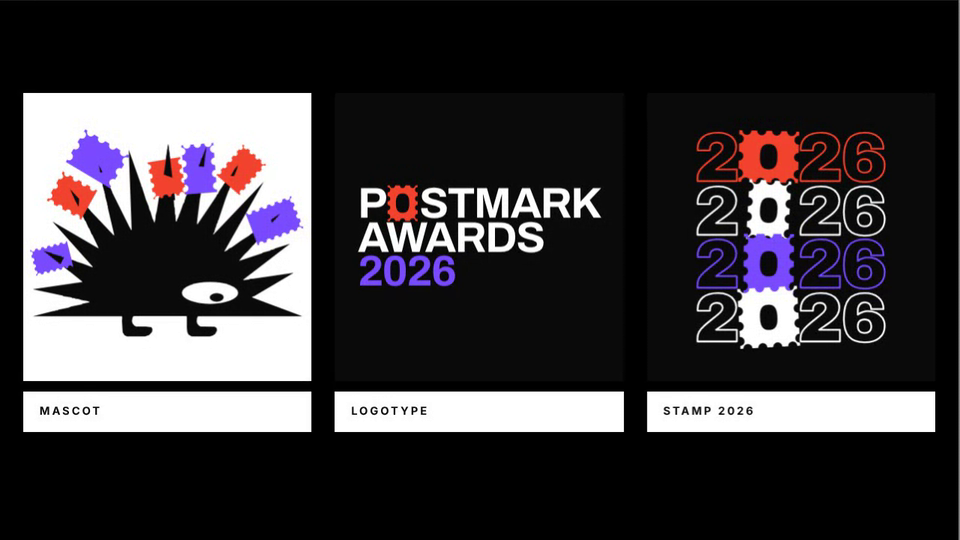
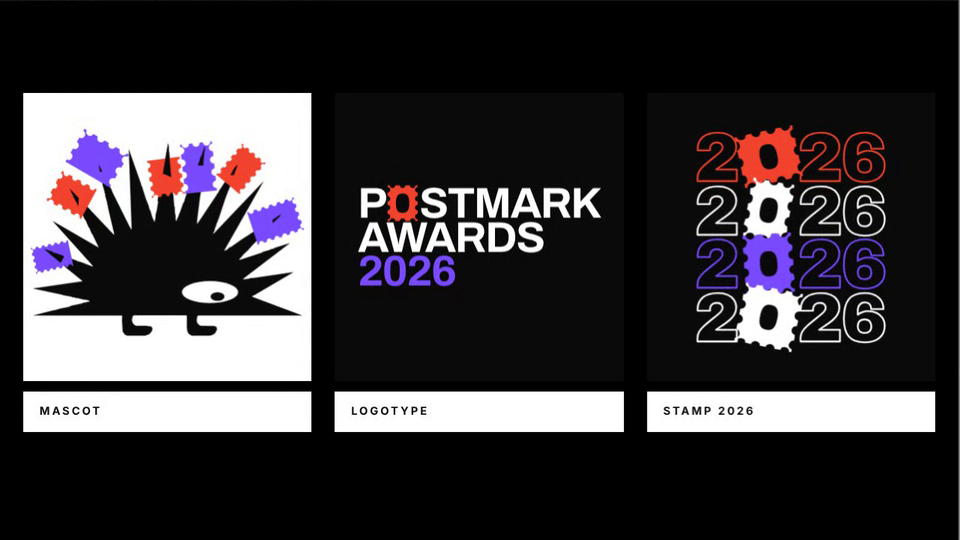
Postmark brand visuals: tilted 2026 stamps (#551)
* Add Postmark Awards 2026 Brand Visuals: porcupine mascot, stamp-O logotype, stamp 2026

Claude-Session: https://claude.ai/code/session_01AHeBe11E2oZW8Zsz7RdnLE

* Postmark brand visuals: rectangular stamps, outlined 2026 with tighter rows, tighter logotype

Claude-Session: https://claude.ai/code/session_01AHeBe11E2oZW8Zsz7RdnLE

* Postmark brand visuals: trace the reference porcupine with quills poking through stamps, tighter 2026 spacing

Claude-Session: https://claude.ai/code/session_01AHeBe11E2oZW8Zsz7RdnLE

* Postmark brand visuals: no perforations on the stamp edge where the quill enters, so no white against the quill

Claude-Session: https://claude.ai/code/session_01AHeBe11E2oZW8Zsz7RdnLE

* Postmark brand visuals: stamps fixed to quills, quills sway irregularly, subtle body plod

Claude-Session: https://claude.ai/code/session_01AHeBe11E2oZW8Zsz7RdnLE

* Postmark brand visuals: slightly bigger zero stamps in the repeating 2026

Claude-Session: https://claude.ai/code/session_01AHeBe11E2oZW8Zsz7RdnLE

* Postmark brand visuals: bigger zero stamps and tighter rows in the repeating 2026

Claude-Session: https://claude.ai/code/session_01AHeBe11E2oZW8Zsz7RdnLE

* Postmark brand visuals: much tighter letter spacing in the repeating 2026

Claude-Session: https://claude.ai/code/session_01AHeBe11E2oZW8Zsz7RdnLE

* Postmark brand visuals: tilt the 2026 stamps in different directions

Claude-Session: https://claude.ai/code/session_01AHeBe11E2oZW8Zsz7RdnLE

---------

diff --git a/postmark-awards-brand-visuals/index.html b/postmark-awards-brand-visuals/index.html
@@ -143,7 +143,8 @@ function drawLogo(ctx, W, H, t) {
 }
 
 /* ===== 3. Repeating 2026 with a stamp for the zero ===== */
-const KINDS = ['stamp', 'square', 'wide', 'tall'], ROWS = [RED, WHITE, PURPLE, WHITE];
+const TILT = [-0.2, 0.15, -0.1, 0.22], // each row's stamp leans its own way
+  KINDS = ['stamp', 'square', 'wide', 'tall'], ROWS = [RED, WHITE, PURPLE, WHITE];
 function drawYear(ctx, W, H, t) {
   ctx.fillStyle = BLACK; ctx.fillRect(0, 0, W, H);
   const ch = 186, y0 = (H - ch * 4) / 2;
@@ -159,7 +160,7 @@ function drawYear(ctx, W, H, t) {
       const cx = xs[i];
       if (d === '0') {
         const a = KINDS[(fl + r) % 4], b = KINDS[(fl + r + 1) % 4];
-        ringStamp(ctx, cx, cy, 104, 0.06 * Math.sin(TAU * t / 3 + r * 1.3), morph(a, b, mo), col);
+        ringStamp(ctx, cx, cy, 104, TILT[r] + 0.04 * Math.sin(TAU * t / 3 + r * 1.3), morph(a, b, mo), col);
       } else {
         const mm = ctx.measureText(d), w = mm.actualBoundingBoxLeft + mm.actualBoundingBoxRight, h = mm.actualBoundingBoxAscent;
         ctx.strokeText(d, cx - w / 2 + mm.actualBoundingBoxLeft, cy + h / 2);
